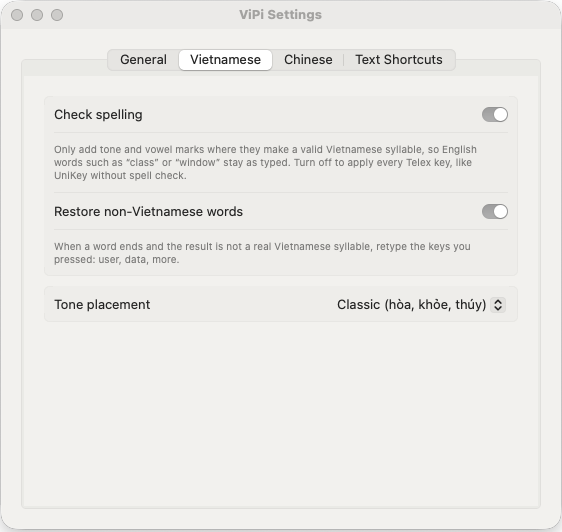
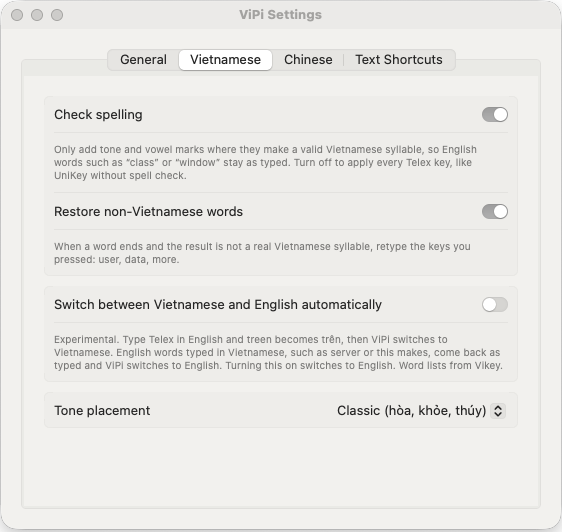
Website and README: experimental Vietnamese/English auto switch, 16 MB memory, What's new link, Vikey and FrequencyWords credits; Vietnamese settings screenshots show the new switch

diff --git a/site/index.html b/site/index.html
@@ -89,6 +89,7 @@
     <ul class="facts">
       <li>Classic <em>hòa</em> or modern <em>hoà</em> tone placement.</li>
       <li>Spell checking on or off.</li>
+      <li><strong>New, experimental:</strong> switch between Vietnamese and English automatically. Stay in English and type <kbd>treen</kbd> to get trên, and ViPi moves to Vietnamese. Type a common English word such as <kbd>server</kbd> in Vietnamese and it comes back as typed while ViPi moves to English. Turn it on in Settings, Vietnamese.</li>
       <li>Tested on a real Mac with all 8,329 valid syllables at 8 to 12 ms per key, and in Chrome at 3 ms per key, without losing a key or a mark.</li>
     </ul>
   </div>
@@ -174,6 +175,7 @@
       <li>The interface speaks English, Tiếng Việt and <span lang="zh">简体中文</span>.</li>
       <li>Light or dark, following macOS or your choice.</li>
       <li>Updates itself: it checks GitHub, verifies the download is signed by the ViPi developer, and relaunches when you stop typing.</li>
+      <li>Lightweight: about 16 MB of memory. Dictionaries are read straight from disk instead of loading at launch.</li>
       <li>Starts at login and stays in the menu bar.</li>
     </ul>
   </div>
@@ -230,7 +232,7 @@
     </details>
     <details>
       <summary>An English word came out as Vietnamese</summary>
-      <p>Words that are also real Vietnamese syllables, such as <kbd>of</kbd> becoming ò, cannot be told apart automatically. Press the tone key twice (<kbd>off</kbd> gives of) or switch to English with <kbd>⌃</kbd>&#8239;<kbd>⇧</kbd>.</p>
+      <p>Words that are also real Vietnamese syllables, such as <kbd>of</kbd> becoming ò, cannot be told apart automatically. Press the tone key twice (<kbd>off</kbd> gives of) or switch to English with <kbd>⌃</kbd>&#8239;<kbd>⇧</kbd>. You can also try the experimental automatic Vietnamese and English switch in Settings, Vietnamese.</p>
     </details>
     <details>
       <summary>Do I have to uninstall UniKey, EVKey or GoNhanh?</summary>
@@ -254,9 +256,10 @@
 
 <footer class="foot">
   <div class="foot-brand"><img src="img/logo.svg" alt="" width="40" height="40"><p>ViPi is free software under GPL-3.0.<br>Found a problem? <a href="https://github.com/t43dev/ViPi/issues">Open an issue</a>.</p></div>
-  <p class="credits">Telex rules follow <a href="https://www.unikey.org">UniKey</a>. The Pinyin dictionary comes from <a href="https://github.com/iDvel/rime-ice">rime-ice</a>, the word model from <a href="https://github.com/libpinyin/libpinyin">libpinyin</a>, Traditional tables from <a href="https://github.com/BYVoid/OpenCC">OpenCC</a>, and the syllable list from <a href="https://github.com/duyet/vietnamese-wordlist">Hồ Ngọc Đức's word list</a>. Set in Be Vietnam Pro.</p>
+  <p class="credits">Telex rules follow <a href="https://www.unikey.org">UniKey</a>. The Pinyin dictionary comes from <a href="https://github.com/iDvel/rime-ice">rime-ice</a>, the word model from <a href="https://github.com/libpinyin/libpinyin">libpinyin</a>, Traditional tables from <a href="https://github.com/BYVoid/OpenCC">OpenCC</a>, and the syllable list from <a href="https://github.com/duyet/vietnamese-wordlist">Hồ Ngọc Đức's word list</a>. The automatic Vietnamese and English switch follows <a href="https://github.com/tonyminibot/Vikey">Vikey</a>, with word frequencies from <a href="https://github.com/hermitdave/FrequencyWords">FrequencyWords</a>. Set in Be Vietnam Pro.</p>
   <nav class="foot-links" aria-label="Project">
     <a href="https://github.com/t43dev/ViPi">Source code</a>
+    <a href="https://github.com/t43dev/ViPi/blob/main/CHANGELOG.md">What's new</a>
     <a href="https://github.com/t43dev/ViPi/releases">All releases</a>
     <a href="https://github.com/t43dev/ViPi/blob/main/LICENSE">License</a>
   </nav>

diff --git a/site/app.js b/site/app.js
@@ -36,7 +36,7 @@
   const shot = $('#shot');
   const shotAlt = {
     general: 'ViPi General settings: language, appearance and switching shortcut',
-    vietnamese: 'ViPi Vietnamese settings: spell checking and tone placement',
+    vietnamese: 'ViPi Vietnamese settings: spell checking, automatic Vietnamese and English switching, and tone placement',
     chinese: 'ViPi Chinese settings: Traditional characters, learning and fuzzy pinyin',
     shortcuts: 'ViPi Text shortcuts settings',
   };

diff --git a/README.md b/README.md
@@ -106,7 +106,7 @@ When a password field or a terminal turns on macOS Secure Input, every input too
 - **Your language:** the whole interface comes in English, Tiếng Việt and 简体中文.
 - **Light or Dark:** follow macOS or pick one yourself.
 - **Updates itself:** ViPi checks GitHub, verifies the download is signed by the ViPi developer, installs it and relaunches when you stop typing.
-- **Light:** about 16 MB of memory. Dictionaries are read straight from disk, not loaded at launch.
+- **Lightweight:** about 16 MB of memory. Dictionaries are read straight from disk, not loaded at launch.
 - **Launches at login**, lives quietly in the menu bar.
 
 <table>
@@ -130,7 +130,7 @@ When a password field or a terminal turns on macOS Secure Input, every input too
   </tr>
   <tr>
     <td align="center"><sub>Language, appearance, shortcut</sub></td>
-    <td align="center"><sub>Spelling and tone placement</sub></td>
+    <td align="center"><sub>Spelling, tone placement, auto switch</sub></td>
     <td align="center"><sub>Traditional, learning, fuzzy pinyin</sub></td>
     <td align="center"><sub>Text shortcuts</sub></td>
   </tr>

diff --git a/README.vi.md b/README.vi.md
@@ -130,7 +130,7 @@ Khi một ô mật khẩu hay cửa sổ terminal bật Secure Input của macOS
   </tr>
   <tr>
     <td align="center"><sub>Ngôn ngữ, giao diện, phím tắt</sub></td>
-    <td align="center"><sub>Chính tả và kiểu đặt dấu</sub></td>
+    <td align="center"><sub>Chính tả, kiểu đặt dấu, tự đổi Việt/Anh</sub></td>
     <td align="center"><sub>Phồn thể, học từ, âm mờ</sub></td>
     <td align="center"><sub>Gõ tắt</sub></td>
   </tr>

diff --git a/README.zh-CN.md b/README.zh-CN.md
@@ -130,7 +130,7 @@
   </tr>
   <tr>
     <td align="center"><sub>语言、外观、快捷键</sub></td>
-    <td align="center"><sub>拼写检查与声调位置</sub></td>
+    <td align="center"><sub>拼写检查、声调位置、自动切换</sub></td>
     <td align="center"><sub>繁体、记忆选词、模糊音</sub></td>
     <td align="center"><sub>快捷短语</sub></td>
   </tr>
